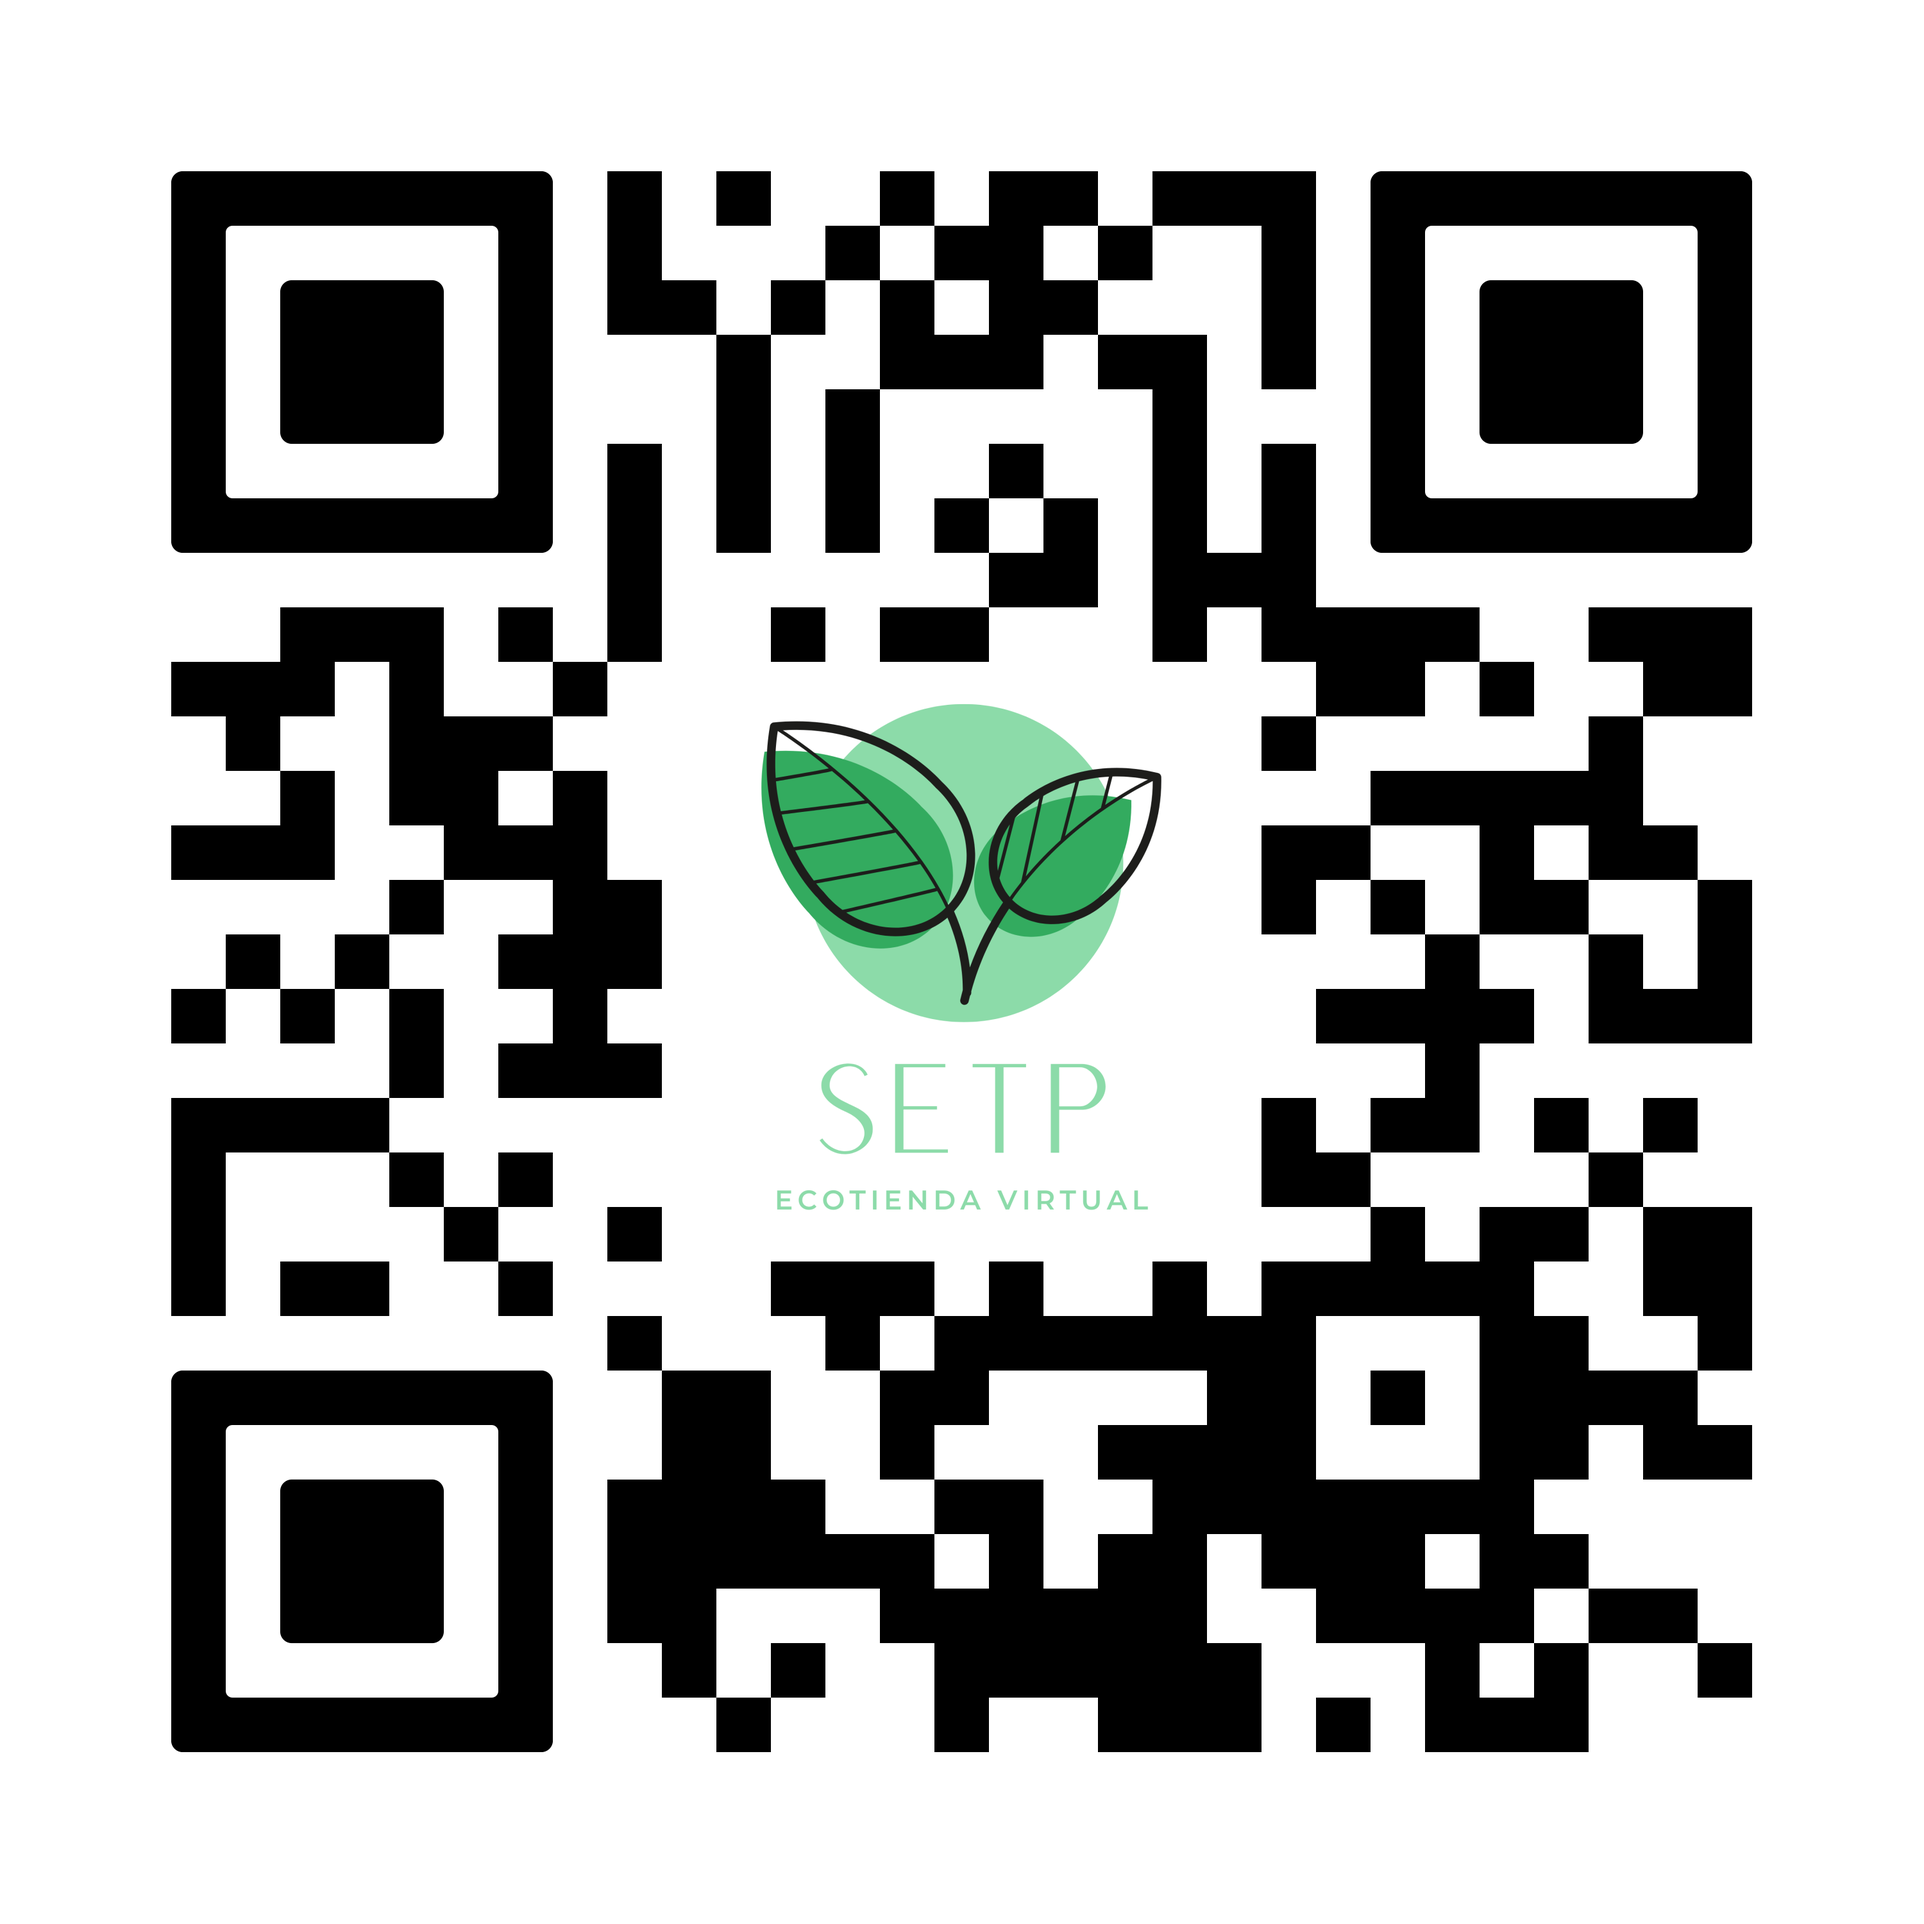
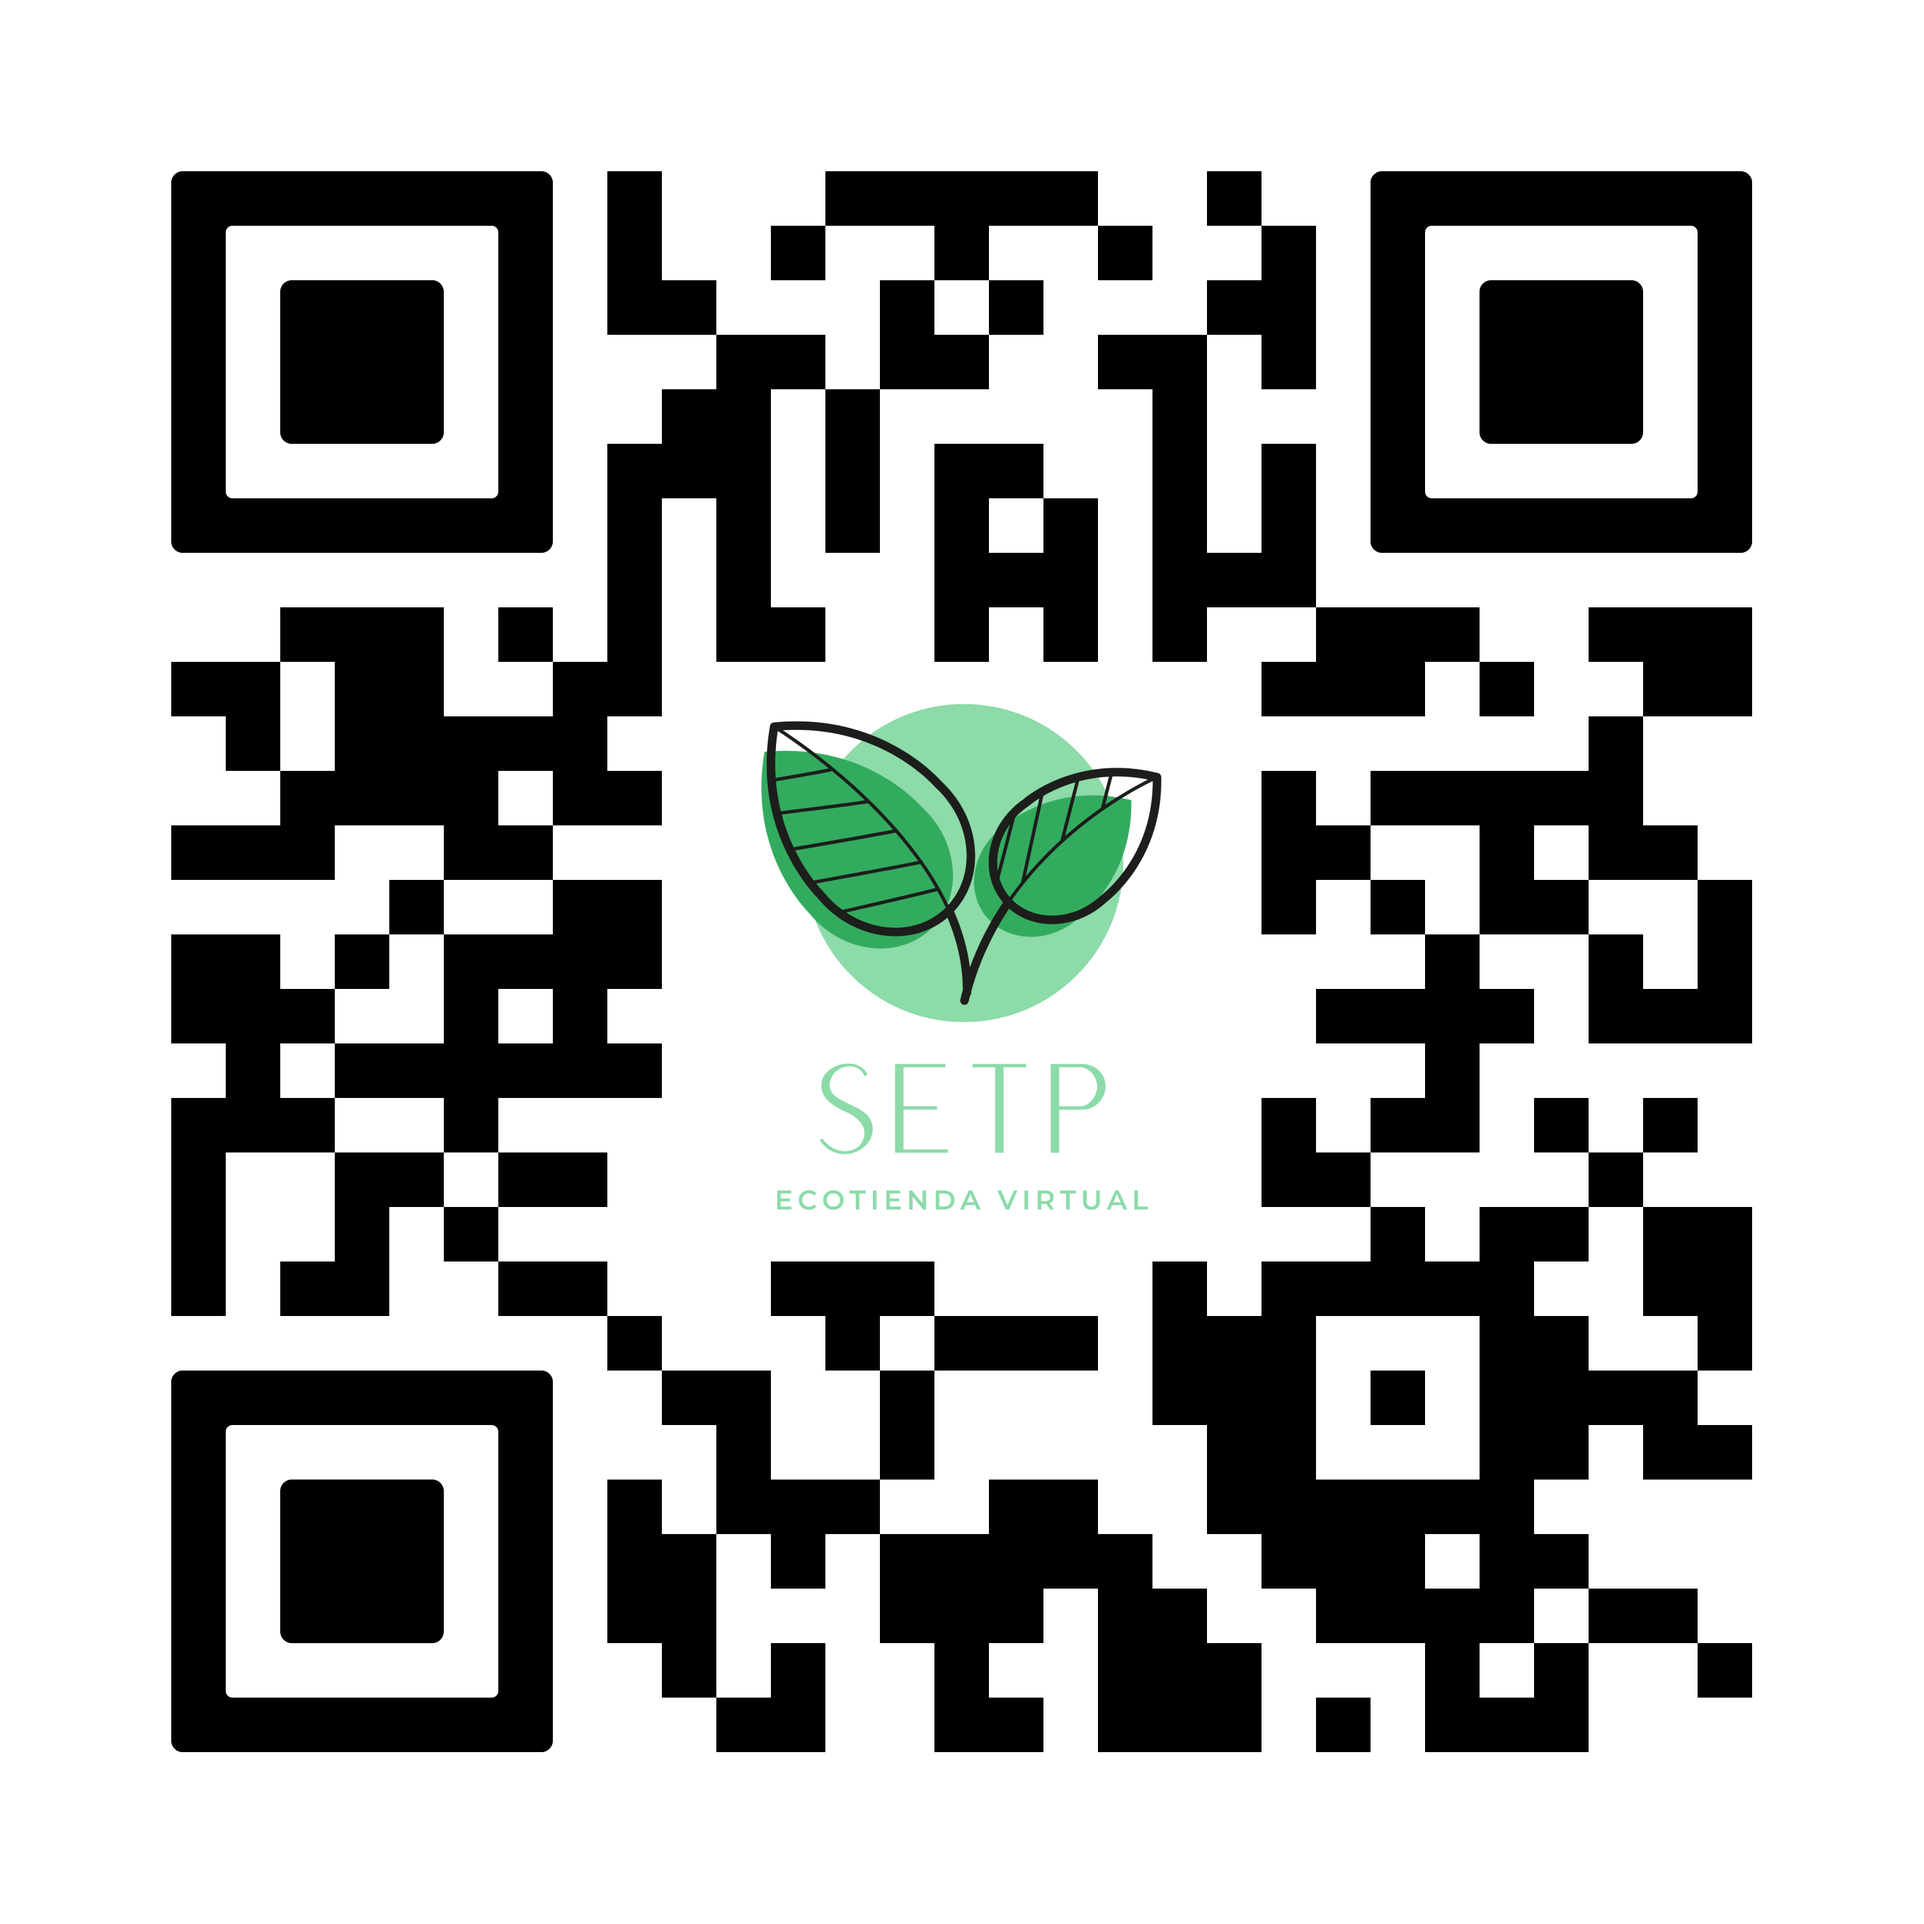
commit1

diff --git a/index.html b/index.html
@@ -29,7 +29,7 @@
           <img src="img/qr.png" alt="Código QR para descargar la app" />
         </div>
         <p>Si no puedes escanear el código QR, también puedes descargar la app directamente desde este enlace:</p>
-        <a href="https://github.com/legna005/Sept-Salud-en-tu-puerta-2/raw/refs/heads/master/apk/release/app-release.apk" class="download-btn">Descargar APK</a>
+        <a href="https://github.com/legna005/Sept-Salud-en-tu-puerta-2/raw/refs/heads/master/app/release/app-release.apk" class="download-btn">Descargar APK</a>
         <div class="install-guide">
           <p><strong>¿Instalación bloqueada?</strong></p>
           <ol>
